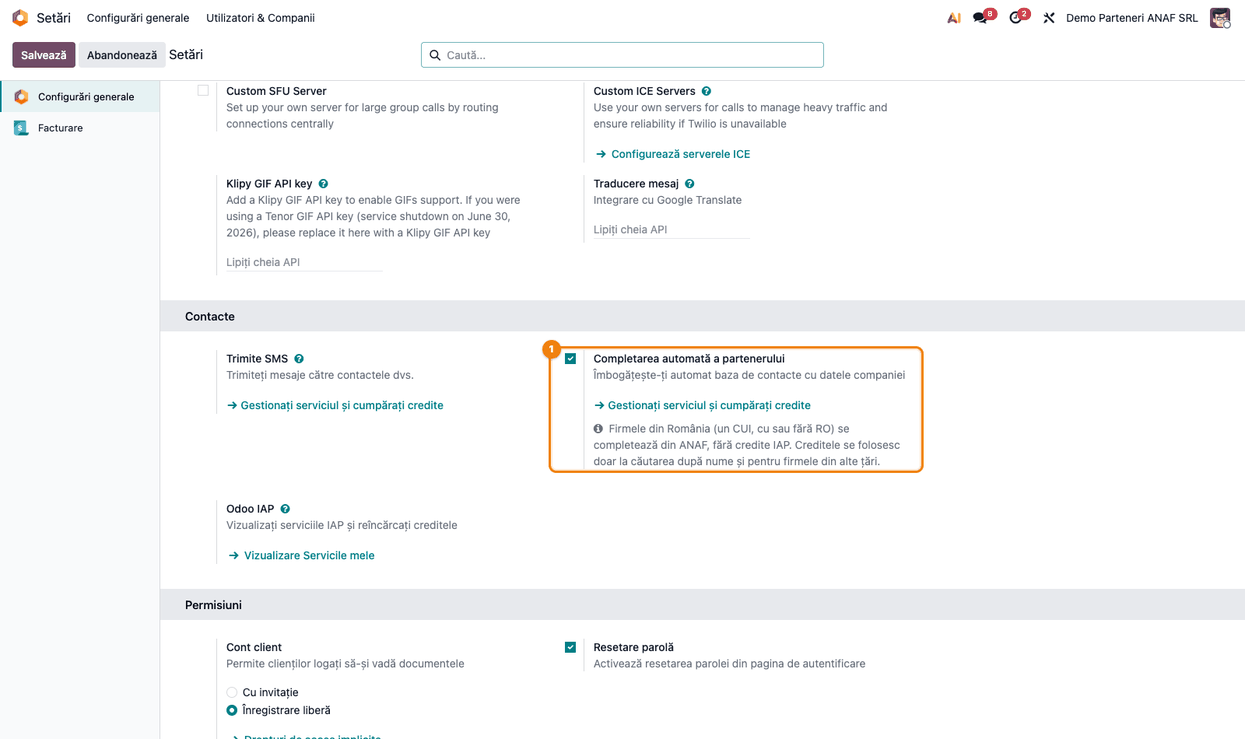
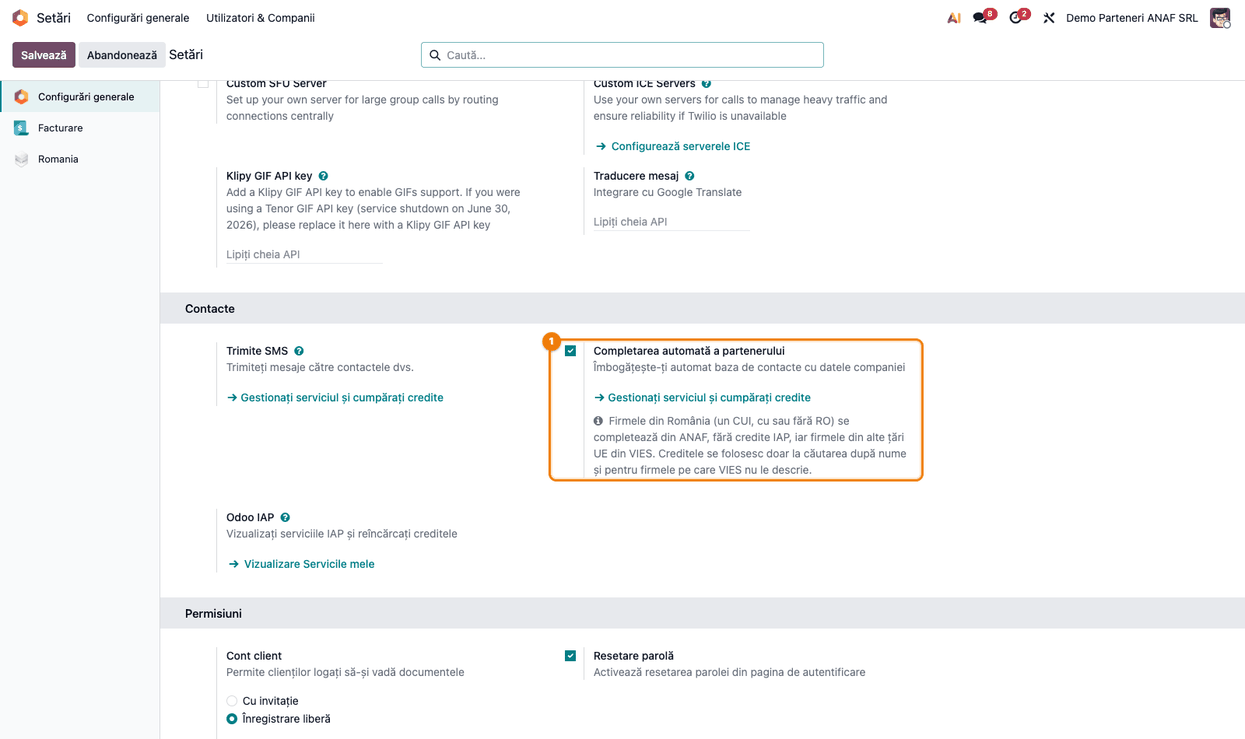
[FIX] l10n_ro_partner_autocomplete: VIES in the settings note, street details on VIES update
The settings note said companies from other countries still use IAP
credits. Update from VIES now clears the old street details next to a
new street and the old state next to a new city, as Update from ANAF.

Assisted-by: Claude Opus 5.5

diff --git a/l10n_ro_partner_autocomplete/models/res_partner.py b/l10n_ro_partner_autocomplete/models/res_partner.py
@@ -128,9 +128,7 @@ class ResPartner(models.Model):
         l10n_ro_config (OCA) adds one more under the trade register number"""
         arch, view = super()._get_view(view_id, view_type, **options)
         if view_type == "form":
-            for node in arch.xpath(
-                "//div[@name='l10n_ro_vat_subjected_info'] | //label[@for='l10n_ro_vat_subjected']"
-            ):
+            for node in arch.xpath("//div[@name='l10n_ro_vat_subjected_info'] | //label[@for='l10n_ro_vat_subjected']"):
                 node.getparent().remove(node)
         return arch, view
 
@@ -328,6 +326,12 @@ class ResPartner(models.Model):
                     for name, value in result["partner"].items()
                     if name in partner._fields and value and name not in ("vat", "is_company")
                 }
+                # Next to a new street the old street details do not belong; a new city does not
+                # keep the old state, which VIES never gives
+                if values.get("street") and values["street"] != partner.street:
+                    values.setdefault("street2", False)
+                if values.get("city") and values["city"] != partner.city:
+                    values["state_id"] = False
                 changes = partner._l10n_ro_anaf_changes(values)
                 partner.write(values)
             else:

diff --git a/l10n_ro_partner_autocomplete/tests/test_partner_autocomplete.py b/l10n_ro_partner_autocomplete/tests/test_partner_autocomplete.py
@@ -418,3 +418,13 @@ class TestPartnerAutocomplete(TransactionCase):
         self.assertEqual(arch.count('name="l10n_ro_vat_subjected"'), 1)
         self.assertNotIn("l10n_ro_vat_subjected_info", arch)
 
+    def test_refresh_from_vies_clears_old_street_details_and_state(self):
+        it = self.env.ref("base.it")
+        state = self.env["res.country.state"].search([("country_id", "=", it.id)], limit=1)
+        partner = self._eu_partner(street="Via Vecchia 1", street2="Scala B", city="Roma", state_id=state.id)
+        self.vies.return_value = vies_answer()
+        partner.action_l10n_ro_vies_refresh()
+        self.assertEqual(partner.street, "Largo Francesco Richini 6")
+        self.assertFalse(partner.street2)
+        self.assertEqual(partner.city, "Milano Mi")
+        self.assertFalse(partner.state_id)

diff --git a/l10n_ro_partner_autocomplete/readme/FISA_CONSULTANT.md b/l10n_ro_partner_autocomplete/readme/FISA_CONSULTANT.md
@@ -137,8 +137,9 @@ românească, deci nu e nevoie de alt modul pentru ele.
 **Setări → Configurări generale → secțiunea Contacte → Completarea automată a partenerului.**
 
 Sub opțiunea standard, modulul adaugă o notă: firmele din România (un CUI, cu sau fără `RO`) se
-completează din ANAF, fără credite IAP; creditele se folosesc doar la căutarea după nume și pentru
-firmele din alte țări. (Nota din setări nu pomenește VIES; firmele din UE sunt tratate la pașii 8–10.)
+completează din ANAF, fără credite IAP, iar firmele din alte țări UE din VIES; creditele se folosesc
+doar la căutarea după nume și pentru firmele pe care VIES nu le descrie (firmele din UE sunt tratate
+la pașii 8–10).
 
 ![Setarea „Completarea automată a partenerului” cu nota despre ANAF](../static/description/01_setari_autocomplete.png)
 
@@ -330,7 +331,8 @@ tip **Companie**, fără firmă-mamă, cu cod fiscal și cu țara într-un stat 
 Faceți clic pe ea.
 
 Odoo rescrie numele și adresa cu ce dă VIES și bifează **Valabil în comunitate**; un câmp pe care
-VIES nu îl dă (ex. **Strada 2**, **Județ**, telefonul) rămâne cum era. Pentru o țară care nu comunică
+VIES nu îl dă (ex. telefonul) rămâne cum era. Lângă o stradă nouă, **Strada 2** veche se golește, iar
+lângă un oraș nou se golește **Județ** (VIES nu dă județul), ca la **Actualizează din ANAF**. Pentru o țară care nu comunică
 datele (Germania, Spania) se actualizează doar bifa. În istoric apare nota **„Actualizat din VIES:”**
 cu fiecare câmp schimbat (vechi → nou) și rândul **„VIES: validă pentru operațiuni
 intracomunitare.”** Dacă nimic nu s-a schimbat, nota spune **„Verificat în VIES: nicio
@@ -344,7 +346,7 @@ operațiuni intracomunitare.”**
 comunitate** bifat; ④ nota **Actualizat din VIES:** din istoric.
 
 **Verificați:** fiecare câmp din notă are valoarea nouă și pe formular; **Valabil în comunitate**
-este bifat. Dacă strada s-a schimbat, verificați **Strada 2**: rămâne cea veche. La un partener
+este bifat. Dacă orașul s-a schimbat, completați **Județ** de mână, unde țara îl cere. La un partener
 care a pierdut validarea VIES, spuneți contabilului: livrările către el nu mai pot fi facturate ca
 livrări intracomunitare scutite.
 
@@ -375,7 +377,7 @@ nume; trimiterea la IAP doar a căutărilor nerecunoscute de ANAF sau VIES ori c
 
 **Ce rămâne manual:** actualizarea partenerilor existenți (**Actualizează din ANAF** / **din VIES**,
 pe rând — nu există o acțiune de actualizare în masă); decizia contabilă la un partener radiat,
-inactiv sau scos din VIES; verificarea duplicatelor; **Strada 2** și **Județ** la firmele din UE.
+inactiv sau scos din VIES; verificarea duplicatelor; **Județ** la firmele din UE care și-au schimbat orașul.
 
 ## 8. Verificări pentru consultant
 
@@ -499,8 +501,6 @@ Regenerare:
   UE, cu **Actualizează din VIES**).
 - Rândul VIES din nota ANAF apare doar la firmele cu **Plătitor TVA** bifat; o firmă înregistrată
   în scopuri de TVA numai pentru operațiuni intracomunitare (art. 317) nu îl are.
-- Nota din **Setări** (pasul 1) încă spune că firmele din alte țări consumă credite; pentru firmele
-  din UE cunoscute de VIES nu mai e cazul.
 - Limitări de spus clientului: nota „Datele firmei au fost preluate din ANAF” apare doar când
   sugestia e aleasă în formularul partenerului, nu și la partenerul creat din câmpul **Client** sau
   cu **Creează**; data din notă e în format ISO (aaaa-ll-zz); modulul nu se instalează împreună cu

diff --git a/l10n_ro_partner_autocomplete/readme/DESCRIPTION.md b/l10n_ro_partner_autocomplete/readme/DESCRIPTION.md
@@ -14,14 +14,14 @@ Point of Sale — shows the company found at ANAF. Choosing it fills the partner
 (`IT00743110157`, `HU10773381`) is looked up in VIES, the free service of the European Commission:
 the name, street, postal code, city and country are filled in, with a note in the chatter, and no IAP
 credit is used. When VIES does not answer, does not know the number or the country keeps the name to
-itself (Germany, Spain), IAP is asked as before. The update button under the Tax ID of such a
+itself (Germany, Spain), IAP is asked as before. The update button next to the Tax ID of such a
 company reloads the data from VIES and sets *Intra-Community Valid*.
 
 **VIES for a Romanian company.** For a VAT payer, the note after the ANAF data says whether the company
 is in VIES, that is registered for intra-community operations; a VAT payer is not always.
 
 **Update from ANAF.** On a Romanian company with a Tax ID, the **Update from ANAF** button (the refresh
-icon) below the Tax ID reloads the data from ANAF: name, address, Tax ID and trade register number are
+icon) next to the Tax ID reloads the data from ANAF: name, address, Tax ID and trade register number are
 rewritten, a phone already on the partner is kept. The chatter lists every field changed, with
 its old and new value, and says when ANAF lists the company as struck off or inactive.
 
@@ -43,4 +43,5 @@ replacing it with the city's.
 No IAP credit is used for a Romanian CUI: neither the search nor the enrichment goes to IAP.
 
 The CUI is recognised with or without `RO`. The rest is left to IAP as before: a search by company
-name, a company from another country, and a Romanian CUI when ANAF does not answer.
+name, a company from outside the EU, a company from the EU that VIES does not describe, and a
+Romanian CUI when ANAF does not answer.

diff --git a/l10n_ro_partner_autocomplete/readme/HISTORY.md b/l10n_ro_partner_autocomplete/readme/HISTORY.md
@@ -8,6 +8,8 @@
 - For a Romanian VAT payer the note after the ANAF data, and the one after **Update from ANAF**,
   say whether the company is in VIES, that is registered for intra-community operations.
 - The update buttons under the Tax ID show only their icon; the name is in the tooltip.
+- **Update from VIES** clears the old street details next to a new street and the old state next
+  to a new city, as **Update from ANAF** does.
 - With `l10n_ro_config` (OCA) installed, the partner form showed **VAT Payer** twice: the box this
   module puts with the Tax ID and the one `l10n_ro_config` adds under the trade register number.
   The `l10n_ro_config` one is dropped from the form.
